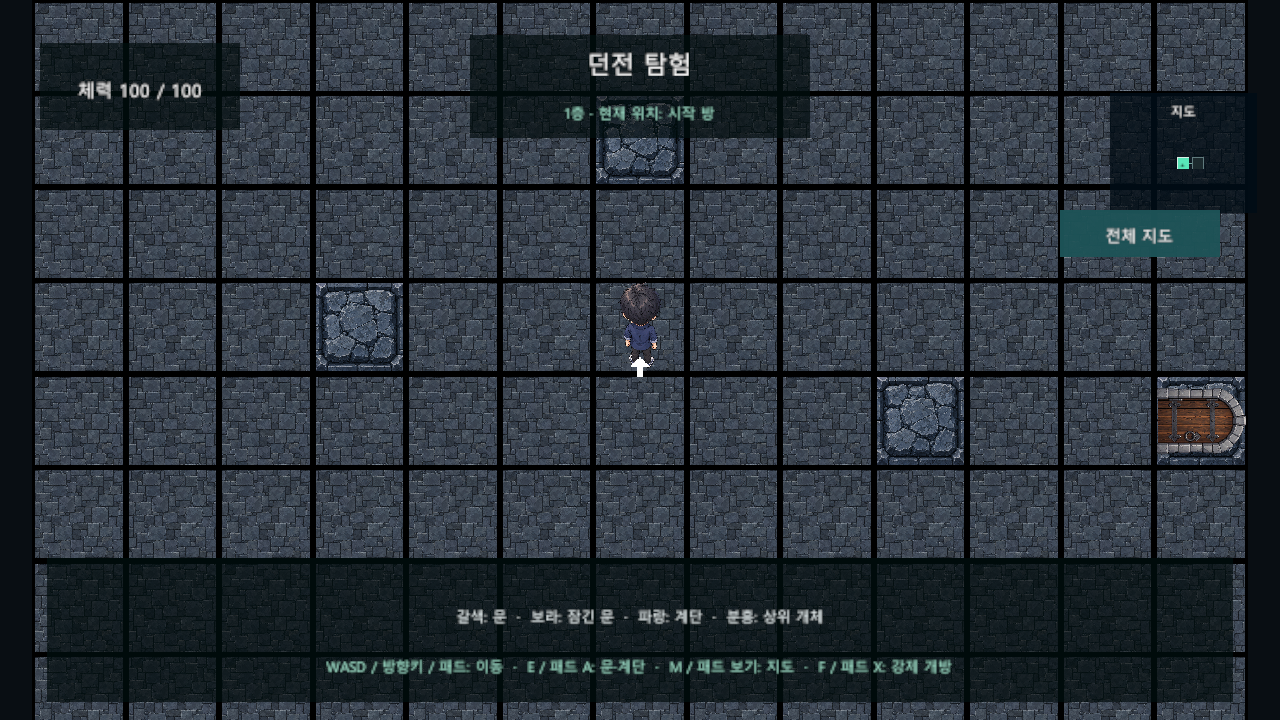
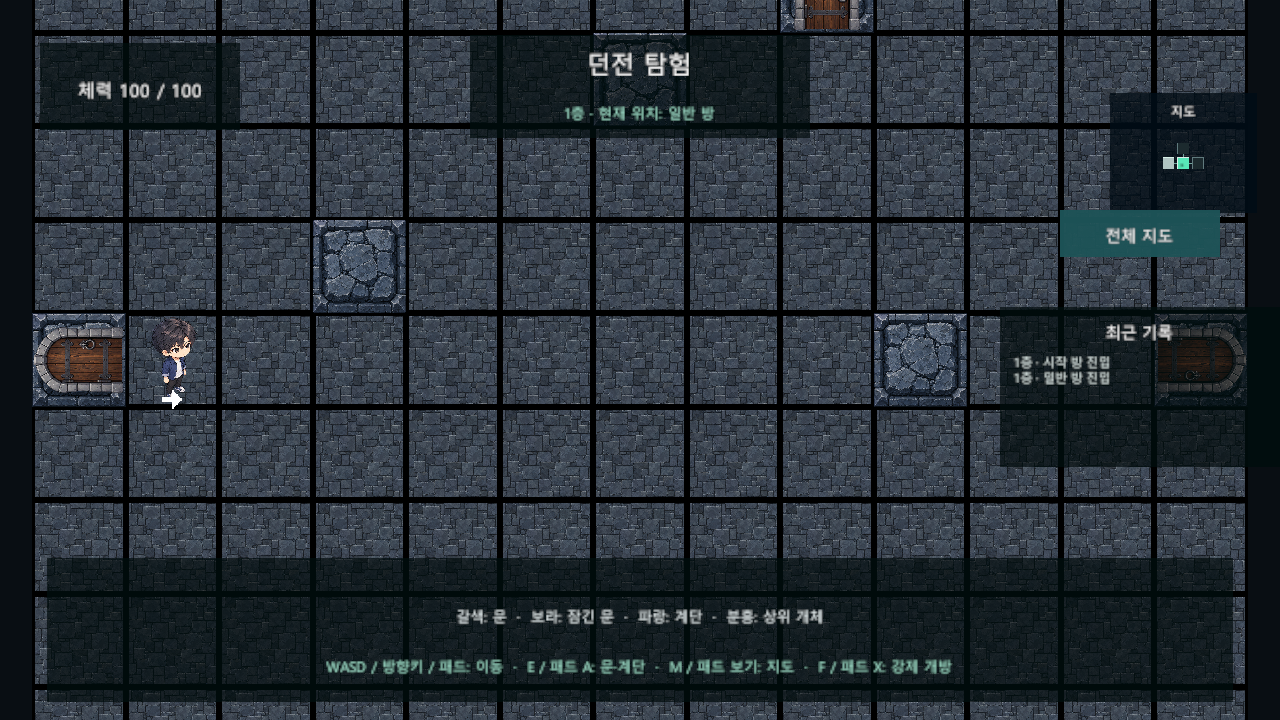
38일차 : 최근 탐험 기록 추가
- 방 진입과 문 상호작용 기록 추가
- 최근 기록 표시와 개수 제한 추가
- 최신 플레이 화면과 검증 기록 수정

diff --git a/Assets/ProjectDelta/Runtime/DungeonScreenView.cs b/Assets/ProjectDelta/Runtime/DungeonScreenView.cs
@@ -1,3 +1,4 @@
+using System.Collections.Generic; // 최근 탐험 기록 보관
 using ProjectDelta.Core; // 생성된 방 역할
 using UnityEngine; // 화면 배치 도구
 using UnityEngine.UI; // 방 이름 표시
@@ -7,6 +8,8 @@ namespace ProjectDelta.Runtime // 실행 이름 공간
     { // 클래스 시작
         private Text status; // 현재 방 이름 표시
         private Text playerHealth; // 현재 플레이어 체력 표시
+        private Text explorationLog; // 최근 탐험 기록 표시
+        private readonly Queue<string> recentEvents = new Queue<string>(); // 최근 탐험 기록 목록
         private Text doorNotice; // 잠긴 문과 열쇠 안내
         private RoomTravelController travel; // 실제 방 이동과 역할 정보
         private void Start() // 기본 안내 화면 구성
@@ -14,9 +17,13 @@ namespace ProjectDelta.Runtime // 실행 이름 공간
             var canvas = UiFactory.CreateCanvas("DungeonCanvas"); // 던전 안내 화면 생성
             canvas.transform.SetParent(transform, false); // 씬 화면 아래 배치
             CreateBackground(canvas.transform, "DungeonPlayerBackground", new Vector2(-750f, 410f), new Vector2(300f, 130f)); // 왼쪽 플레이어 상태 배경
+            CreateBackground(canvas.transform, "DungeonLogBackground", new Vector2(750f, -40f), new Vector2(420f, 240f)); // 오른쪽 최근 기록 배경
             CreateBackground(canvas.transform, "DungeonHeaderBackground", new Vector2(0f, 410f), new Vector2(510f, 155f)); // 상단 안내의 어두운 배경
             CreateBackground(canvas.transform, "DungeonControlsBackground", new Vector2(0f, -405f), new Vector2(1780f, 215f)); // 하단 조작 안내의 어두운 배경
             var mint = new Color(0.62f, 0.87f, 0.79f); // 안내 강조 색상
+            UiFactory.CreateText(canvas.transform, "LogTitle", "최근 기록", 24, new Vector2(750f, 45f), new Vector2(380f, 45f), Color.white); // 탐험 기록 제목
+            explorationLog = UiFactory.CreateText(canvas.transform, "ExplorationLog", "", 20, new Vector2(750f, -65f), new Vector2(380f, 150f), new Color(0.88f, 0.93f, 0.92f)); // 최근 탐험 기록 내용
+            explorationLog.alignment = TextAnchor.UpperLeft; // 최근 기록의 왼쪽 정렬
             playerHealth = UiFactory.CreateText(canvas.transform, "PlayerHealthStatus", "체력 100 / 100", 28, new Vector2(-750f, 410f), new Vector2(280f, 80f), Color.white); // 실제 플레이어 체력 안내
             UiFactory.CreateText(canvas.transform, "Header", "던전 탐험", 38, new Vector2(0f, 450f), new Vector2(1000f, 90f), Color.white); // 던전 진입 결과 표시
             status = UiFactory.CreateText(canvas.transform, "Status", "던전 준비 중", 23, new Vector2(0f, 375f), new Vector2(1000f, 60f), mint); // 현재 방 안내 표시
@@ -78,7 +85,21 @@ namespace ProjectDelta.Runtime // 실행 이름 공간
         private void UpdateDoorNotice(string message) // 문 상호작용 안내 갱신
         { // 갱신 시작
             doorNotice.text = message; // 실제 안내 문구 표시
+            AppendLog(message); // 실제 문 상호작용 기록
         } // 갱신 끝
+        private void AppendLog(string message) // 최근 탐험 기록 추가
+        { // 기록 시작
+            if (explorationLog == null || string.IsNullOrWhiteSpace(message)) // 화면과 실제 기록 검사
+            { // 빈 기록 조건 시작
+                return; // 빈 안내의 기록 제외
+            } // 빈 기록 조건 끝
+            recentEvents.Enqueue(message); // 실제 탐험 사건 보관
+            while (recentEvents.Count > 4) // 최근 기록 수 제한 검사
+            { // 오래된 기록 정리 시작
+                recentEvents.Dequeue(); // 가장 오래된 기록 제거
+            } // 오래된 기록 정리 끝
+            explorationLog.text = string.Join("\n", recentEvents.ToArray()); // 최근 기록을 순서대로 표시
+        } // 기록 끝
         private void UpdateRoom() // 현재 방의 역할 표시
         { // 갱신 시작
             var room = travel.Layout.GetRoom(travel.RoomX, travel.RoomY); // 실제 현재 방 정보 조회
@@ -102,6 +123,7 @@ namespace ProjectDelta.Runtime // 실행 이름 공간
                     break; // 역할 선택 종료
             } // 역할 선택 끝
             status.text = travel.Floor + "층 · " + status.text; // 현재 층과 방 함께 표시
+            AppendLog(status.text.Replace("현재 위치: ", "") + " 진입"); // 실제 도착 방의 최근 기록
         } // 갱신 끝
     } // 클래스 끝
 } // 이름 공간 끝

diff --git a/Assets/ProjectDelta/Tests/PlayMode/RoomTravelTests.cs b/Assets/ProjectDelta/Tests/PlayMode/RoomTravelTests.cs
@@ -195,6 +195,10 @@ namespace ProjectDelta.Tests // 검증 이름 공간
         { // 검증 시작
             yield return EnterDungeon(); // 실제 던전 진입
             var player = GameObject.Find("PlayerPreview").GetComponent<GridMoveController>(); // 실제 플레이어 조회
+            var explorationLog = GameObject.Find("ExplorationLog"); // 탐험 중 최근 기록
+            Assert.That(explorationLog, Is.Not.Null); // 탐험 기록 화면 확인
+            var logText = explorationLog.GetComponent<Text>(); // 실제 기록 글자
+            Assert.That(logText.text, Does.Contain("시작 방")); // 시작 방 진입 기록 확인
             var start = GameObject.Find("DungeonMiniMap/MapContent/Room_0_0"); // 시작 방 지도 칸
             var neighbor = GameObject.Find("DungeonMiniMap/MapContent/Room_1_0"); // 연결된 두 번째 방 지도 칸
             Assert.That(start, Is.Not.Null, "Starting room must appear on the minimap."); // 시작 방 표시 확인
@@ -206,6 +210,19 @@ namespace ProjectDelta.Tests // 검증 이름 공간
             Assert.That(start.transform.Find("CurrentDirection").GetComponent<Text>().text, Is.EqualTo("▶")); // 실제 이동 방향과 지도 방향 일치
             yield return TapKey(Key.E); // 두 번째 방 진입
             Assert.That(GameObject.Find("DungeonMiniMap/MapContent/Room_1_1"), Is.Not.Null); // 새로 확인한 위쪽 방 표시
+            Assert.That(logText.text, Does.Contain("일반 방")); // 실제 다음 방 진입 기록 확인
+            var logCapturePath = System.Environment.GetEnvironmentVariable("PROJECT_DELTA_CAPTURE_PATH"); // 최신 탐험 화면 저장 경로
+            if (!string.IsNullOrEmpty(logCapturePath) && Application.isBatchMode) // 화면 없는 캡처 요청 검사
+            { // 캡처 조건 시작
+                while (player.IsRoomTransitionLocked) // 부드러운 방 전환 완료 대기
+                { // 전환 대기 시작
+                    yield return null; // 다음 프레임 대기
+                } // 전환 대기 끝
+                var capture = typeof(DungeonRuntimeGenerationTests).GetMethod("CaptureScreen", System.Reflection.BindingFlags.Static | System.Reflection.BindingFlags.NonPublic); // 실제 탐험 화면 캡처 도구
+                var image = (Texture2D)capture.Invoke(null, new object[] { "DungeonCanvas" }); // 최근 기록이 보이는 탐험 화면
+                System.IO.File.WriteAllBytes(logCapturePath, image.EncodeToPNG()); // 최신 플레이 화면 저장
+                Object.Destroy(image); // 임시 이미지 정리
+            } // 캡처 조건 끝
             Assert.That(GameObject.Find("DungeonMiniMap/MapContent/Room_1_0").GetComponent<Image>().color, Is.Not.EqualTo(connectedColor)); // 방문 방의 표시 변경
             var currentRect = GameObject.Find("DungeonMiniMap/MapContent/Room_1_0").GetComponent<RectTransform>(); // 새 현재 방의 지도 위치
             var previousRect = GameObject.Find("DungeonMiniMap/MapContent/Room_0_0").GetComponent<RectTransform>(); // 이전 방의 지도 위치
@@ -224,7 +241,7 @@ namespace ProjectDelta.Tests // 검증 이름 공간
             Assert.That(GameObject.Find("ThirdDungeonGrid"), Is.Not.Null); // 세 번째 방 표시 확인
             Assert.That(GameObject.Find("RoomTravel").GetComponent<RoomTravelController>().RoomY, Is.EqualTo(1)); // 현재 방 세로 좌표 확인
             var capturePath = System.Environment.GetEnvironmentVariable("PROJECT_DELTA_CAPTURE_PATH"); // 검증 도구에서 전달한 캡처 경로
-            if (!string.IsNullOrEmpty(capturePath)) // 스크린샷 저장 요청 검사
+            if (!string.IsNullOrEmpty(capturePath) && !System.IO.File.Exists(capturePath)) // 아직 캡처하지 않은 화면 검사
             { // 화면 저장 조건 시작
                 Texture2D screenshot; // 실제 플레이 화면 이미지
                 if (Application.isBatchMode) // 화면 조작 없는 자동 실행 검사

diff --git a/Assets/ProjectDelta/Tests/PlayMode/DungeonRuntimeGenerationTests.cs b/Assets/ProjectDelta/Tests/PlayMode/DungeonRuntimeGenerationTests.cs
@@ -2497,6 +2497,8 @@ namespace ProjectDelta.Tests // 검증 이름 공간
             var notice = GameObject.Find("DoorNotice").GetComponent<UnityEngine.UI.Text>(); // 실제 문 결과 안내
             Assert.That(notice.text, Does.Contain("실패")); // 강제 개방 실패 안내
             Assert.That(notice.text, Does.Contain("50")); // 시험 공격력과 난이도 안내
+            var recentLog = GameObject.Find("ExplorationLog").GetComponent<UnityEngine.UI.Text>(); // 실제 탐험 기록
+            Assert.That(recentLog.text, Does.Contain("강제 개방 실패")); // 실제 문 실패의 기록 확인
             var capturePath = System.Environment.GetEnvironmentVariable("PROJECT_DELTA_CAPTURE_PATH"); // 최신 화면 저장 경로
             if (!string.IsNullOrEmpty(capturePath) && Application.isBatchMode) // 화면 없는 캡처 검사
             { // 캡처 조건 시작
@@ -2517,6 +2519,7 @@ namespace ProjectDelta.Tests // 검증 이름 공간
             InputSystem.Update(); // 해제 반영
             yield return null; // 재시도 안내 대기
             Assert.That(notice.text, Does.Contain("이미")); // 같은 문의 재시도 차단 안내
+            Assert.That(recentLog.text.Split('\n').Length, Is.LessThanOrEqualTo(4)); // 최근 네 개 기록 제한 확인
             Assert.That(rolls.Count, Is.Zero); // 재시도 시 추가 주사위 없음
             Assert.That(AppRoot.Instance.Keys.Add(1), Is.True); // 실패 이후 시험 열쇠 획득
             InputSystem.QueueStateEvent(keyboard, new KeyboardState(Key.E)); // 열쇠로 실제 문 이동

diff --git a/Assets/ProjectDelta/Editor/DayThirtyEightProjectSetup.cs b/Assets/ProjectDelta/Editor/DayThirtyEightProjectSetup.cs
@@ -1,0 +1,12 @@
+using UnityEditor; // 편집기 메뉴
+namespace ProjectDelta.Editor // 제작 도구 이름 공간
+{ // 이름 공간 시작
+    public static class DayThirtyEightProjectSetup // 38일차 Windows 빌드
+    { // 클래스 시작
+        [MenuItem("Project Delta/38일차/Windows 빌드")] // 편집기 빌드 메뉴
+        public static void BuildWindows() // 38일차 실행 파일 빌드
+        { // 빌드 시작
+            DayOneProjectSetup.BuildWindowsAt("Builds/Day38"); // 기존 빌드와 분리된 출력 경로
+        } // 빌드 끝
+    } // 클래스 끝
+} // 이름 공간 끝

diff --git a/README.md b/README.md
@@ -22,7 +22,7 @@
 
 Unity Hub에서 저장소 폴더를 프로젝트로 추가하고 `Assets/ProjectDelta/Scenes/BootstrapScene.unity`를 열어 Play를 실행한다.
 
-타이틀에서 새 게임을 선택하면 던전에 진입하고, 관찰 기록을 선택하면 저장된 시험 대상의 정보를 확인할 수 있다. 던전에서 WASD·방향키·게임패드 방향 입력으로 한 칸씩 이동하고, Esc 또는 게임패드의 취소 버튼으로 타이틀에 복귀한다. SD 주인공은 이동 방향에 따라 네 방향 이미지로 바뀌고 아래의 흰 화살표는 바라보는 방향, 돌무더기는 장애물, 갈색 문은 출구다. 타일과 플레이어는 기존보다 가로·세로 두 배 크기이며, 검은 테두리로 각 칸을 구분한다. 카메라는 방의 범위를 고려해 플레이어를 따라간다. 방을 이동할 때 화면이 부드럽게 전환된다. 미니맵은 현재 방을 중심으로 주변 5×5 범위의 발견한 방과 연결을 표시한다. 직접 방문한 계단 방에는 파란 표시가 나타난다. M 키 또는 게임패드 보기 버튼으로 발견한 방의 전체 지도를 열고 같은 버튼, Esc 또는 패드 B로 닫을 수 있다. 탐험 화면과 지도 화면의 버튼을 마우스로 눌러 열고 닫을 수도 있다. 문 앞에서 문 방향으로 마지막 이동을 마친 뒤 E 또는 게임패드의 남쪽 버튼을 누르면 다른 방으로 이동한다. 도착 직후 돌아가려면 방 안쪽으로 한 칸 이동한 뒤 문 쪽으로 돌아와 상호작용한다. 계단 방 중앙의 파란 화살표에 서서 E 또는 게임패드 남쪽 버튼을 누르면 다음 층으로 이동한다. 상위 개체 방에서 분홍 대상 주변 한 칸에 이동을 마치면 조우 화면이 열리고, 전투를 선택하면 시험 전투가 시작된다. 조우 화면에서 도망에 성공하면 이전 방으로 돌아가며 대상은 남는다. 조우 도망 실패나 동점은 전투로 이어진다. 회유에 성공하면 시험 조우를 보상 없이 평화적으로 끝내며 실패하면 전투로 이어진다. 매력과 저항은 시험 수치다. 관찰에 성공하면 시험 상대의 체력과 공격 성향을 확인할 수 있다. 관찰 기록은 2D 전용 저장 파일에 보관되어 새 게임과 재시작 이후에도 유지된다. 정식 도감 목록과 대상별 회유 결과·유혹·아이템 선택은 후속 작업이다. 전투에서 기본 공격·방어·회복약을 사용하면 적도 기본 공격으로 대응한다. 시험 회복약은 실제 회복에 성공할 때 한 개와 행동을 소비한다. 방어는 행동을 소모해 다음 자신의 차례까지 직접 피해를 줄인다. 일반 전투 후퇴는 플레이어와 가장 빠른 생존 적의 속도에 각각 1~20 주사위를 더해 비교하며 동점은 실패한다. 성공하면 보상 없이 같은 층의 이전 방으로 돌아가고, 시험 적의 남은 체력과 미완료 상태가 유지된다. 실패하면 행동을 소모해 적의 차례가 진행된다. 승리하면 해당 조우가 완료되고 기존 방으로 복귀한다. 패배하면 타이틀로 돌아간다. 전투 후 체력은 유지되며 층 이동에 성공하면 회복된다. 탐험 중 I 또는 게임패드 북쪽 버튼으로 인벤토리를 열고 닫는다. 슬롯을 선택한 뒤 다른 슬롯을 선택하거나 마우스로 끌어 놓아 아이템을 이동·교환할 수 있다. 선택 중 취소하면 이동을 중단한다. 시험 아이템을 받을 공간이 없으면 새 아이템을 두고 가거나 기존 묶음을 선택해 확인 후 교체할 수 있다. 시험 소형 회복약은 탐험 인벤토리에서 체력을 최대 25 회복하며, 체력이 최대일 때는 소비되지 않는다. 보라색으로 표시된 문은 시험용 잠긴 문이며, 인벤토리에서 지급한 시험 열쇠 하나를 사용해 양방향으로 열 수 있다. 잠긴 문 앞에서 F 또는 게임패드 서쪽 버튼으로 공격력 판정을 통한 강제 개방을 한 번 시도할 수도 있다. 실패 후에도 열쇠로 열 수 있다. 현재 판정의 공격력 50과 문 난이도 50은 시험값이다.
+타이틀에서 새 게임을 선택하면 던전에 진입하고, 관찰 기록을 선택하면 저장된 시험 대상의 정보를 확인할 수 있다. 던전에서 WASD·방향키·게임패드 방향 입력으로 한 칸씩 이동하고, Esc 또는 게임패드의 취소 버튼으로 타이틀에 복귀한다. SD 주인공은 이동 방향에 따라 네 방향 이미지로 바뀌고 아래의 흰 화살표는 바라보는 방향, 돌무더기는 장애물, 갈색 문은 출구다. 타일과 플레이어는 기존보다 가로·세로 두 배 크기이며, 검은 테두리로 각 칸을 구분한다. 카메라는 방의 범위를 고려해 플레이어를 따라간다. 방을 이동할 때 화면이 부드럽게 전환된다. 오른쪽 최근 기록에는 방 진입과 문 상호작용이 최대 네 개까지 표시된다. 미니맵은 현재 방을 중심으로 주변 5×5 범위의 발견한 방과 연결을 표시한다. 직접 방문한 계단 방에는 파란 표시가 나타난다. M 키 또는 게임패드 보기 버튼으로 발견한 방의 전체 지도를 열고 같은 버튼, Esc 또는 패드 B로 닫을 수 있다. 탐험 화면과 지도 화면의 버튼을 마우스로 눌러 열고 닫을 수도 있다. 문 앞에서 문 방향으로 마지막 이동을 마친 뒤 E 또는 게임패드의 남쪽 버튼을 누르면 다른 방으로 이동한다. 도착 직후 돌아가려면 방 안쪽으로 한 칸 이동한 뒤 문 쪽으로 돌아와 상호작용한다. 계단 방 중앙의 파란 화살표에 서서 E 또는 게임패드 남쪽 버튼을 누르면 다음 층으로 이동한다. 상위 개체 방에서 분홍 대상 주변 한 칸에 이동을 마치면 조우 화면이 열리고, 전투를 선택하면 시험 전투가 시작된다. 조우 화면에서 도망에 성공하면 이전 방으로 돌아가며 대상은 남는다. 조우 도망 실패나 동점은 전투로 이어진다. 회유에 성공하면 시험 조우를 보상 없이 평화적으로 끝내며 실패하면 전투로 이어진다. 매력과 저항은 시험 수치다. 관찰에 성공하면 시험 상대의 체력과 공격 성향을 확인할 수 있다. 관찰 기록은 2D 전용 저장 파일에 보관되어 새 게임과 재시작 이후에도 유지된다. 정식 도감 목록과 대상별 회유 결과·유혹·아이템 선택은 후속 작업이다. 전투에서 기본 공격·방어·회복약을 사용하면 적도 기본 공격으로 대응한다. 시험 회복약은 실제 회복에 성공할 때 한 개와 행동을 소비한다. 방어는 행동을 소모해 다음 자신의 차례까지 직접 피해를 줄인다. 일반 전투 후퇴는 플레이어와 가장 빠른 생존 적의 속도에 각각 1~20 주사위를 더해 비교하며 동점은 실패한다. 성공하면 보상 없이 같은 층의 이전 방으로 돌아가고, 시험 적의 남은 체력과 미완료 상태가 유지된다. 실패하면 행동을 소모해 적의 차례가 진행된다. 승리하면 해당 조우가 완료되고 기존 방으로 복귀한다. 패배하면 타이틀로 돌아간다. 전투 후 체력은 유지되며 층 이동에 성공하면 회복된다. 탐험 중 I 또는 게임패드 북쪽 버튼으로 인벤토리를 열고 닫는다. 슬롯을 선택한 뒤 다른 슬롯을 선택하거나 마우스로 끌어 놓아 아이템을 이동·교환할 수 있다. 선택 중 취소하면 이동을 중단한다. 시험 아이템을 받을 공간이 없으면 새 아이템을 두고 가거나 기존 묶음을 선택해 확인 후 교체할 수 있다. 시험 소형 회복약은 탐험 인벤토리에서 체력을 최대 25 회복하며, 체력이 최대일 때는 소비되지 않는다. 보라색으로 표시된 문은 시험용 잠긴 문이며, 인벤토리에서 지급한 시험 열쇠 하나를 사용해 양방향으로 열 수 있다. 잠긴 문 앞에서 F 또는 게임패드 서쪽 버튼으로 공격력 판정을 통한 강제 개방을 한 번 시도할 수도 있다. 실패 후에도 열쇠로 열 수 있다. 현재 판정의 공격력 50과 문 난이도 50은 시험값이다.
 
 오른쪽 위 미니맵은 현재 방과 방향을 초록색으로, 방문한 방을 밝은색으로 표시한다. 연결만 확인한 미방문 방은 어두운 윤곽으로 나타나며, 아직 확인하지 못한 방과 비밀 통로는 숨긴다. 새 게임을 시작하면 방문 기록이 초기화된다.
 
@@ -42,7 +42,7 @@ Unity Hub에서 저장소 폴더를 프로젝트로 추가하고 `Assets/Project
 ---
 ## 검증과 빌드
 
-PowerShell에서 `Tools/Run-DayThirtySevenChecks.ps1 -Check EditMode`, `-Check PlayMode`, `-Check Build`로 실행한다. 편집기 경로가 다르면 `-UnityPath`로 지정한다. 플레이 화면을 창을 띄우지 않고 캡처하려면 `-Check Screenshot`을 사용한다. Windows 테스트 실행 파일 검증은 `-Check PlayerTests`를 사용한다. 원본 프로젝트가 Unity에서 열려 있으면 별도 프로젝트 복사본에서 테스트한다.
+PowerShell에서 `Tools/Run-DayThirtyEightChecks.ps1 -Check EditMode`, `-Check PlayMode`, `-Check Build`로 실행한다. 편집기 경로가 다르면 `-UnityPath`로 지정한다. 플레이 화면을 창을 띄우지 않고 캡처하려면 `-Check Screenshot`을 사용한다. Windows 테스트 실행 파일 검증은 `-Check PlayerTests`를 사용한다. 원본 프로젝트가 Unity에서 열려 있으면 별도 프로젝트 복사본에서 테스트한다.
 
 기본 씬 재생성은 Unity 메뉴 `Project Delta/1일차/기본 씬 재생성`으로 실행한다. 생성기는 해당 기본 씬 세 개를 덮어쓰므로 씬 편집 후에는 변경을 먼저 보존한다.
 
@@ -52,4 +52,4 @@ PowerShell에서 `Tools/Run-DayThirtySevenChecks.ps1 -Check EditMode`, `-Check P
 
 세 번째 방과 지도를 구성하는 메뉴는 `Project Delta/4일차/시험 방과 지도 구성`이다. 기존 방·문 설정이 시험 구성과 다르거나 새 출구 칸이 점유되어 있으면 구성을 중단한다.
 
-검증 기록은 `Artifacts`, 37일차 Windows 빌드는 `Builds/Day37`에 생성되며 Git에서 제외한다. 기존 빌드도 각 일차의 경로에 남는다.
+검증 기록은 `Artifacts`, 38일차 Windows 빌드는 `Builds/Day38`에 생성되며 Git에서 제외한다. 기존 빌드도 각 일차의 경로에 남는다.

diff --git a/docs/development/day-038.md b/docs/development/day-038.md
@@ -1,0 +1,22 @@
+---
+# 38일차: 최근 탐험 기록
+
+---
+## 구현 내용
+
+- 실제 방 진입과 문 상호작용 안내를 탐험 화면 오른쪽에 기록.
+- 빈 안내를 제외하고 최근 네 개만 화면에 표시.
+- 기존 이동과 문 판정은 유지.
+- 방 전환 완료 후 최근 기록이 보이는 실제 화면을 README에 갱신.
+
+---
+## 범위
+
+현재 기록은 던전 화면의 임시 기록이다. 회차 전체 기록과 별도 이력 화면은 아직 구현하지 않았다.
+
+---
+## 검증 결과
+
+- 별도 Unity 프로젝트에서 EditMode 테스트 149개와 PlayMode 테스트 99개 통과.
+- 실제 방 이동, 문 강제 개방 실패와 최근 기록 제한 추가 검증.
+- 방 전환 완료 화면 캡처와 Windows 빌드 성공. 사용자 화면 보호를 위해 실행 파일 테스트는 실행하지 않음.

diff --git a/docs/superpowers/specs/2026-10-29-day38-exploration-log-design.md b/docs/superpowers/specs/2026-10-29-day38-exploration-log-design.md
@@ -1,0 +1,14 @@
+---
+# 38일차 최근 탐험 기록 설계
+
+---
+## 범위
+
+- 기획서의 탐험 로그에 맞춰 실제 방 진입과 문 상호작용 안내를 기록.
+- 최근 네 개만 화면 오른쪽에 표시하고 빈 안내는 기록하지 않음.
+- 현재 던전 화면의 임시 기록이며 전체 회차 기록 저장은 후속 작업.
+
+---
+## 검증
+
+별도 Unity 프로젝트에서 실제 방 이동과 화면 기록, 기존 게임 흐름 및 실제 화면을 확인한다.

diff --git a/docs/superpowers/plans/2026-10-29-day38-exploration-log.md b/docs/superpowers/plans/2026-10-29-day38-exploration-log.md
@@ -1,0 +1,7 @@
+---
+# 38일차 구현 계획
+
+1. 기획서의 탐험 로그와 실제 방·문 이벤트 확인.
+2. 최근 방 진입과 문 상호작용 기록 및 표시 개수 제한.
+3. 별도 Unity 프로젝트에서 실제 이동, 회귀 테스트, 화면 및 빌드 확인.
+4. 최신 실제 화면을 README에 반영하고 커밋과 푸시.
